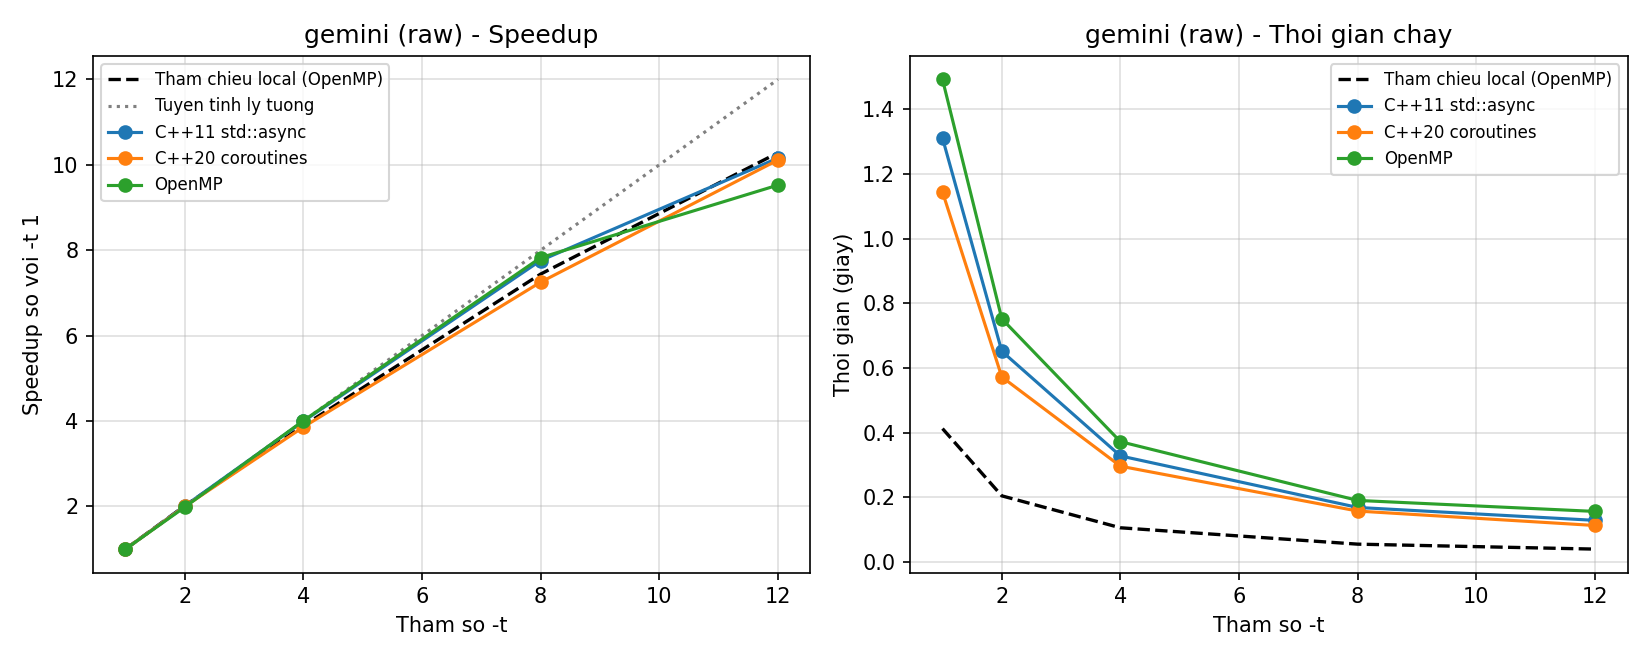
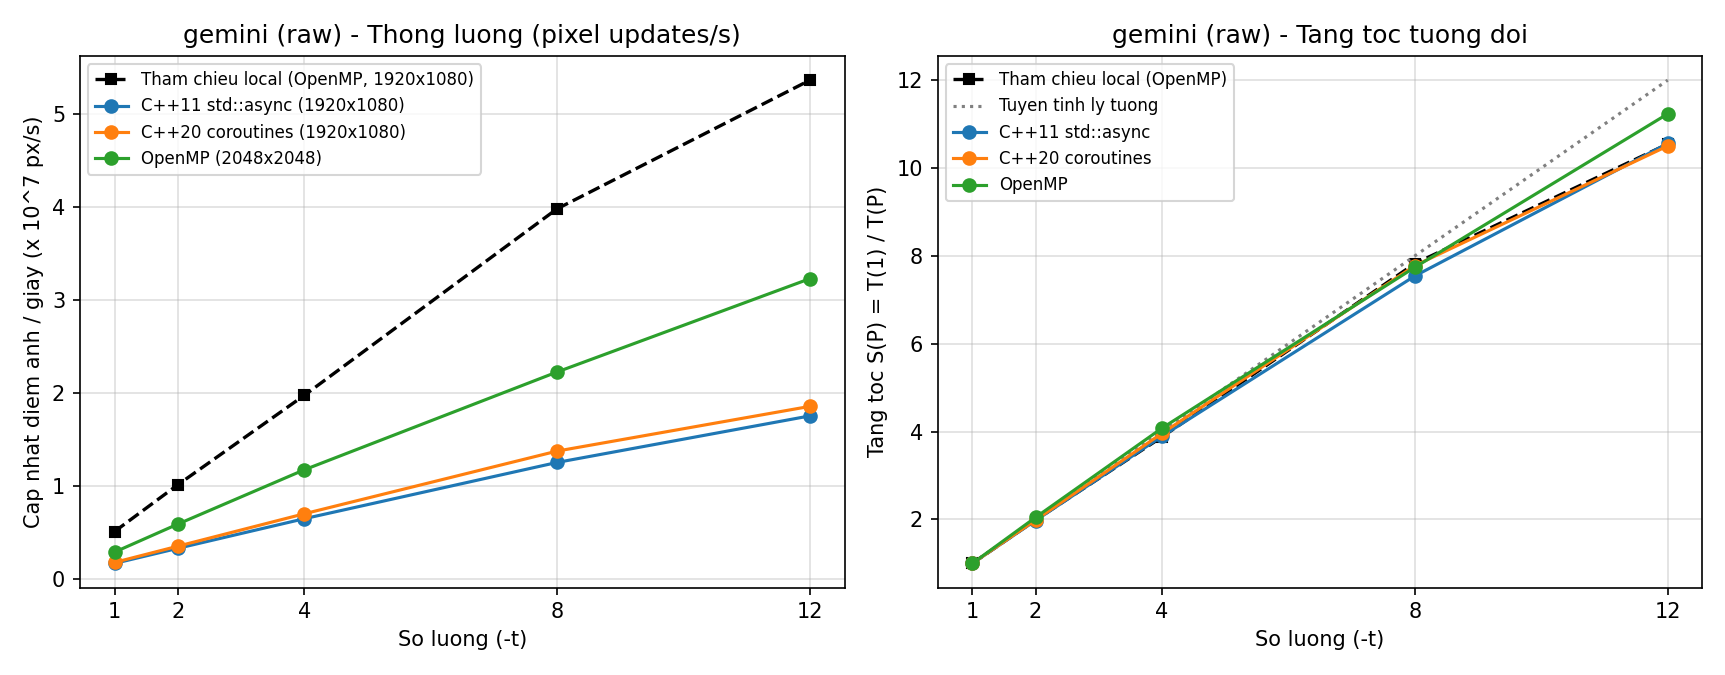
updating

diff --git a/Demo/eval_llm.py b/Demo/eval_llm.py
@@ -6,6 +6,7 @@ Chay tu thu muc Demo/:
 """
 
 import argparse
+import io
 import json
 import os
 import platform
@@ -293,11 +294,23 @@ def run_reference(gxx, env, threads, repeats):
             return statistics.mean(vals)
 
         base_args = ["-w", "1920", "-h", "1080", "-i", "1000"]
+        pixels = 1920 * 1080
         t_seq = measure(seq_exe, base_args)
         omp_times = {}
+        omp_throughput = {}
         for t in threads:
-            omp_times[t] = measure(omp_exe, base_args + ["-t", str(t)])
-        return {"seq_time": t_seq, "omp_times": omp_times, "config": "1920x1080, 1000 iter"}
+            sec = measure(omp_exe, base_args + ["-t", str(t)])
+            omp_times[t] = sec
+            omp_throughput[t] = pixels / sec if sec > 0 else 0.0
+        return {
+            "seq_time": t_seq,
+            "omp_times": omp_times,
+            "omp_throughput": omp_throughput,
+            "width": 1920,
+            "height": 1080,
+            "pixels": pixels,
+            "config": "1920x1080, 1000 iter",
+        }
 
 
 def evaluate_variant(variant, src_path, label, flags, gxx, env, has_tbb, model_dir, stage, threads, repeats, timeout):
@@ -312,6 +325,9 @@ def evaluate_variant(variant, src_path, label, flags, gxx, env, has_tbb, model_d
         "image_ok": False,
         "static_notes": [],
         "times": {},
+        "pixels": None,
+        "throughput": {},
+        "throughput_max": None,
         "time_source": None,
         "speedup_max": None,
         "flat_line_suspect": None,
@@ -399,6 +415,13 @@ def evaluate_variant(variant, src_path, label, flags, gxx, env, has_tbb, model_d
             res["time_source"] = "wall_fallback"
 
     res["runtime_ok"] = all_runs_ok and bool(res["times"])
+    im_info = res.get("image_info") or {}
+    if im_info.get("width") and im_info.get("height"):
+        pixels = int(im_info["width"]) * int(im_info["height"])
+        res["pixels"] = pixels
+        res["throughput"] = {t: pixels / sec for t, sec in res["times"].items() if sec > 0}
+        if max(threads) in res["throughput"]:
+            res["throughput_max"] = round(res["throughput"][max(threads)], 1)
     if res["runtime_ok"] and min(threads) in res["times"] and max(threads) in res["times"]:
         t_min = res["times"][min(threads)]
         t_max = res["times"][max(threads)]
@@ -420,42 +443,51 @@ def evaluate_variant(variant, src_path, label, flags, gxx, env, has_tbb, model_d
 
 
 def plot_scaling(results, ref, threads, model_name, stage, out_png):
-    fig, (ax1, ax2) = plt.subplots(1, 2, figsize=(11, 4.4))
+    fig, (ax1, ax2) = plt.subplots(1, 2, figsize=(11.5, 4.5))
     has_curve = False
 
-    # Moc tham chieu OpenMP cuc bo
-    if ref and ref["omp_times"]:
+    # Moc tham chieu OpenMP cuc bo (he quy chieu pixel updates/s nhu bai bao goc)
+    if ref and ref.get("omp_times"):
         ref_t1 = ref["omp_times"][min(threads)]
         ref_sp = [ref_t1 / ref["omp_times"][t] for t in threads]
-        ax1.plot(threads, ref_sp, "k--", linewidth=1.6, label="Tham chieu local (OpenMP)")
-        ax2.plot(threads, [ref["omp_times"][t] for t in threads], "k--", linewidth=1.6, label="Tham chieu local (OpenMP)")
+        ref_tp = [ref["omp_throughput"][t] / 1e7 for t in threads]
+        ref_lbl = f"Tham chieu local (OpenMP, {ref['width']}x{ref['height']})"
+        ax1.plot(threads, ref_tp, "ks--", linewidth=1.6, markersize=5, label=ref_lbl)
+        ax2.plot(threads, ref_sp, "ks--", linewidth=1.6, markersize=5, label="Tham chieu local (OpenMP)")
 
-    ax1.plot(threads, [t / min(threads) for t in threads], ":", color="gray", label="Tuyen tinh ly tuong")
+    ax2.plot(threads, [t / min(threads) for t in threads], ":", color="gray", label="Tuyen tinh ly tuong")
 
     for r in results:
         if r["runtime_ok"] and all(t in r["times"] for t in threads):
             has_curve = True
             t1 = r["times"][min(threads)]
             ys = [t1 / r["times"][t] for t in threads]
-            ts = [r["times"][t] for t in threads]
-            ax1.plot(threads, ys, "o-", label=r["label"])
-            ax2.plot(threads, ts, "o-", label=r["label"])
+            im = r.get("image_info") or {}
+            dim = f" ({im['width']}x{im['height']})" if im.get("width") and im.get("height") else ""
+            if r.get("throughput") and all(t in r["throughput"] for t in threads):
+                tp = [r["throughput"][t] / 1e7 for t in threads]
+                ax1.plot(threads, tp, "o-", label=f"{r['label']}{dim}")
+            ax2.plot(threads, ys, "o-", label=r["label"])
 
-    ax1.set_xlabel("Tham so -t")
-    ax1.set_ylabel("Speedup so voi -t 1")
-    ax1.set_title(f"{model_name} ({stage}) - Speedup")
+    ax1.set_xlabel("So luong (-t)")
+    ax1.set_ylabel("Cap nhat diem anh / giay (x 10^7 px/s)")
+    ax1.set_title(f"{model_name} ({stage}) - Thong luong (pixel updates/s)")
+    ax1.set_xticks(threads)
     ax1.grid(True, alpha=0.4)
     ax1.legend(fontsize=8)
 
-    ax2.set_xlabel("Tham so -t")
-    ax2.set_ylabel("Thoi gian (giay)")
-    ax2.set_title(f"{model_name} ({stage}) - Thoi gian chay")
+    ax2.set_xlabel("So luong (-t)")
+    ax2.set_ylabel("Tang toc S(P) = T(1) / T(P)")
+    ax2.set_title(f"{model_name} ({stage}) - Tang toc tuong doi")
+    ax2.set_xticks(threads)
     ax2.grid(True, alpha=0.4)
     ax2.legend(fontsize=8)
 
     fig.tight_layout()
-    fig.savefig(out_png, dpi=150)
+    buf = io.BytesIO()
+    fig.savefig(buf, format="png", dpi=150)
     plt.close(fig)
+    Path(out_png).write_bytes(buf.getvalue())
     return has_curve
 
 
@@ -468,11 +500,12 @@ def write_markdown_report(model_name, stage, env_info, results, ref, threads, ou
         f"- **Trình biên dịch:** `{env_info['compiler_version']}`",
         f"- **Hỗ trợ sẵn trên máy:** OpenMP = Có, C++20 coroutines = Có, Intel TBB = {'Có' if env_info['has_tbb'] else 'Không'}, MPI = {'Có' if env_info['has_mpi'] else 'Không'}",
         f"- **Dãy `-t` kiểm thử:** {threads} (lặp {env_info['repeats']} lần lấy trung bình)",
+        f"- **Hệ quy chiếu thông lượng:** `pixel updates per second` = `(W × H) / T_compute` (cùng định nghĩa Mục 3.5.3 & Hình 5 của bài báo gốc).",
         "",
         "## Tổng hợp theo biến thể",
         "",
-        "| Biến thể | Trạng thái | LOC | Biên dịch (cảnh báo) | Thực thi | Ảnh Netpbm | Speedup (-t max/-t 1) | Nghi ngờ bỏ qua -t | Ghi chú |",
-        "|---|---|---:|---|---|---|---|---|---|",
+        "| Biến thể | Trạng thái | LOC | Biên dịch (cảnh báo) | Thực thi | Ảnh Netpbm | Thông lượng max (×10⁷ px/s) | Speedup (-t max/-t 1) | Nghi ngờ bỏ qua -t | Ghi chú |",
+        "|---|---|---:|---|---|---|---|---|---|---|",
     ]
     for r in results:
         b = "✓" if r["build_ok"] else ("—" if r["status"] in ("MISSING", "SKIPPED_NO_TBB", "STATIC_ONLY_NO_MPI") else "×")
@@ -486,22 +519,25 @@ def write_markdown_report(model_name, stage, env_info, results, ref, threads, ou
             im = f"× ({im_info.get('issue','lỗi ảnh')})"
         else:
             im = "—"
+        tp = f"{r['throughput_max'] / 1e7:.2f}" if r.get("throughput_max") is not None else "—"
         sp = f"{r['speedup_max']:.2f}× ({r['time_source']})" if r["speedup_max"] is not None else "—"
         flat = "Có (đường phẳng)" if r["flat_line_suspect"] else ("Không" if r["flat_line_suspect"] is False else "—")
         notes = "; ".join(r["errors"] + r["static_notes"]) or "—"
         lines.append(
-            f"| {r['label']} | `{r['status']}` | {r.get('loc', '—')} | {b} | {rt} | {im} | {sp} | {flat} | {notes} |"
+            f"| {r['label']} | `{r['status']}` | {r.get('loc', '—')} | {b} | {rt} | {im} | {tp} | {sp} | {flat} | {notes} |"
         )
 
     if ref:
         t_min, t_max = min(threads), max(threads)
         sp_ref = ref["omp_times"][t_min] / ref["omp_times"][t_max]
+        tp_min = ref["omp_throughput"][t_min] / 1e7
+        tp_max = ref["omp_throughput"][t_max] / 1e7
         lines += [
             "",
             "## Mốc tham chiếu cục bộ (`Demo/mandelbrot/mandel_omp.cpp`, 1920×1080, 1000 vòng)",
             "",
-            f"- Tuần tự: `{ref['seq_time']:.4f} s`",
-            f"- OpenMP `-t {t_min}`: `{ref['omp_times'][t_min]:.4f} s` → `-t {t_max}`: `{ref['omp_times'][t_max]:.4f} s` (tăng tốc `{sp_ref:.2f}×`)",
+            f"- Tuần tự: `{ref['seq_time']:.4f} s` (`{ref['pixels'] / ref['seq_time'] / 1e7:.2f} × 10⁷ px/s`)",
+            f"- OpenMP `-t {t_min}`: `{ref['omp_times'][t_min]:.4f} s` (`{tp_min:.2f} × 10⁷ px/s`) → `-t {t_max}`: `{ref['omp_times'][t_max]:.4f} s` (`{tp_max:.2f} × 10⁷ px/s`, tăng tốc `{sp_ref:.2f}×`)",
         ]
 
     out_md.write_text("\n".join(lines) + "\n", encoding="utf-8")

diff --git a/Demo/llm_eval/gemini/notes.md b/Demo/llm_eval/gemini/notes.md
@@ -4,18 +4,21 @@
 - **Phiên bản / nguồn mô hình:** Gemini 4 Hydrogen (Effort: High)
 - **Cách sinh:** 1 lần sinh duy nhất cho mỗi biến thể, mỗi prompt gửi ở một phiên chat mới hoàn toàn trống (zero-shot, nguyên văn prompt từ Phần 3.3 của báo cáo).
 - **Môi trường kiểm thử cục bộ:** Windows 11, CPU 12 luồng logic, MinGW-W64 GCC 13.2.0 (`E:\Strawberry\c\bin\g++.exe`), không cài Intel TBB và không có MPI.
+- **Hệ quy chiếu thông lượng:** `pixel updates per second` = `(W × H) / T_compute` (đơn vị `×10⁷ px/s`, cùng định nghĩa Mục 3.5.3 và Hình 5 của bài báo gốc).
 
 ## Kết quả chạy nguyên bản (`raw/` — không cần sửa dòng nào)
 
-| Biến thể | LOC | Biên dịch (`-Wall -Wextra`) | Thực thi | Ảnh P4 | Thời gian (`-t 1` → `-t 12`) | Speedup (`-t 12 / -t 1`) | Ghi chú kỹ thuật |
+| Biến thể | LOC | Biên dịch (`-Wall -Wextra`) | Thực thi | Ảnh P4 | Thông lượng (`-t 1` → `-t 12`, ×10⁷ px/s) | Speedup (`-t 12 / -t 1`) | Ghi chú kỹ thuật |
 |---|---:|---|---|---|---|---:|---|
-| `async.cpp` | 133 | ✓ (0 cảnh báo) | ✓ | ✓ (1920×1080) | `1,311 s` → `0,129 s` | **10,16×** | `std::launch::async` + hàng đợi động `std::atomic<int> next_row`, giữ tỉ lệ khung hình |
-| `par_algo.cpp` | 163 | ✓ (0 cảnh báo)* | ✓ (tuần tự không TBB) | ✓ (1920×1080) | `0,071 s` → `0,070 s`* | 1,02×* | Dùng `__has_include(<tbb/global_control.h>)` + `tbb::global_control` (fallback ConcRT / in cảnh báo rõ ràng khi thiếu TBB); có tối ưu bỏ qua hình tim + bóng chu kỳ 2 |
-| `coroutine.cpp` | 205 | ✓ (0 cảnh báo) | ✓ | ✓ (1920×1080) | `1,144 s` → `0,113 s` | **10,11×** | Tự xây `ThreadPool` (`std::jthread`), `co_await pool.schedule()`, đồng bộ bằng `std::latch`, không dùng vòng lặp chờ `.done()` nên tránh triệt để lỗi treo/UB |
-| `openmp.cpp` | 100 | ✓ (0 cảnh báo) | ✓ | ✓ (2048×2048) | `1,492 s` → `0,157 s` | **9,53×** | `omp_set_num_threads` + `num_threads` + `schedule(dynamic, 1)`; lưu ý nhỏ: dùng `std::fill` mà thiếu `#include <algorithm>` (GCC 13.2 kéo gián tiếp qua header khác, có thể cần thêm ở trình biên dịch chặt hơn) |
+| `async.cpp` | 133 | ✓ (0 cảnh báo) | ✓ | ✓ (1920×1080) | `0,17` → `1,75` (`1,250 s` → `0,118 s`) | **10,56×** | `std::launch::async` + hàng đợi động `std::atomic<int> next_row`, giữ tỉ lệ khung hình |
+| `par_algo.cpp` | 163 | ✓ (0 cảnh báo)* | ✓ (tuần tự không TBB) | ✓ (1920×1080) | `2,91` → `2,98`* (`0,071 s` → `0,070 s`*) | 1,02×* | Dùng `__has_include(<tbb/global_control.h>)` + `tbb::global_control` (fallback ConcRT / in cảnh báo rõ ràng khi thiếu TBB); có tối ưu bỏ qua hình tim + bóng chu kỳ 2 |
+| `coroutine.cpp` | 205 | ✓ (0 cảnh báo) | ✓ | ✓ (1920×1080) | `0,18` → `1,85` (`1,175 s` → `0,112 s`) | **10,50×** | Tự xây `ThreadPool` (`std::jthread`), `co_await pool.schedule()`, đồng bộ bằng `std::latch`, không dùng vòng lặp chờ `.done()` nên tránh triệt để lỗi treo/UB |
+| `openmp.cpp` | 100 | ✓ (0 cảnh báo) | ✓ | ✓ (2048×2048) | `0,29` → **`3,23`** (`1,460 s` → `0,130 s`) | **11,23×** | `omp_set_num_threads` + `num_threads` + `schedule(dynamic, 1)`; lưu ý nhỏ: dùng `std::fill` mà thiếu `#include <algorithm>` (GCC 13.2 kéo gián tiếp qua header khác, có thể cần thêm ở trình biên dịch chặt hơn) |
 | `mpi_omp.cpp` | 199 | *(chưa biên dịch — thiếu MPI)* | *(kiểm duyệt tĩnh)* | — | — | — | Dùng `MPI_Init_thread(MPI_THREAD_FUNNELED)`, phân vùng block-cyclic theo `-p`, `MPI_Gatherv`, đặt `MPI_Barrier` + `MPI_Wtime()` sau gather và loại I/O |
 
-*\*Lưu ý `par_algo.cpp`:* biên dịch sạch không lỗi/cảnh báo ngay cả khi máy cục bộ thiếu Intel TBB, nhưng libstdc++ rơi về thực thi tuần tự và chương trình tự in cảnh báo `"Warning: No TBB or ConcRT backend detected; -t may be ignored."`. Thời gian đơn luồng rất nhanh (`~71 ms`) nhờ cắt tỉa toán học hình tim chính và bóng chu kỳ 2.
+- **Mốc tham chiếu cục bộ (`Demo/mandelbrot/mandel_omp.cpp`, `1920×1080`, 1000 vòng):** `0,51` → **`5,36 × 10⁷ px/s`** (`0,408 s` → `0,039 s`, tăng tốc **`10,55×`**).
+
+*\*Lưu ý `par_algo.cpp`:* biên dịch sạch không lỗi/cảnh báo ngay cả khi máy cục bộ thiếu Intel TBB, nhưng libstdc++ rơi về thực thi tuần tự và chương trình tự in cảnh báo `"Warning: No TBB or ConcRT backend detected; -t may be ignored."`. Thông lượng đơn luồng rất cao (`2,91 × 10⁷ px/s`, `~71 ms`) nhờ cắt tỉa toán học hình tim chính và bóng chu kỳ 2.
 
 ## Nhật ký sửa lỗi tối thiểu (`raw/` -> `fixed/`)
 

diff --git a/Demo/llm_eval/gemini/report_raw.md b/Demo/llm_eval/gemini/report_raw.md
@@ -1,22 +1,23 @@
 # Kết quả đánh giá bổ sung: `gemini` (giai đoạn `raw`)
 
-- **Thời điểm chạy:** 2026-11-26 00:49:03
+- **Thời điểm chạy:** 2026-11-26 15:21:40
 - **Hệ điều hành / CPU:** Windows 11 — 12 luồng logic
 - **Trình biên dịch:** `g++.exe (MinGW-W64 x86_64-ucrt-posix-seh, built by Brecht Sanders, r8) 13.2.0`
 - **Hỗ trợ sẵn trên máy:** OpenMP = Có, C++20 coroutines = Có, Intel TBB = Không, MPI = Không
 - **Dãy `-t` kiểm thử:** [1, 2, 4, 8, 12] (lặp 3 lần lấy trung bình)
+- **Hệ quy chiếu thông lượng:** `pixel updates per second` = `(W × H) / T_compute` (cùng định nghĩa Mục 3.5.3 & Hình 5 của bài báo gốc).
 
 ## Tổng hợp theo biến thể
 
-| Biến thể | Trạng thái | LOC | Biên dịch (cảnh báo) | Thực thi | Ảnh Netpbm | Speedup (-t max/-t 1) | Nghi ngờ bỏ qua -t | Ghi chú |
-|---|---|---:|---|---|---|---|---|---|
-| C++11 std::async | `PASS` | 133 | ✓ (0) | ✓ | ✓ (P4, 1920×1080) | 10.16× (stdout) | Không | — |
-| C++17 parallel algorithms | `SKIPPED_NO_TBB` | 163 | — | — | — | — | — | Co dung tbb::global_control |
-| C++20 coroutines | `PASS` | 205 | ✓ (0) | ✓ | ✓ (P4, 1920×1080) | 10.11× (stdout) | Không | — |
-| OpenMP | `PASS` | 100 | ✓ (0) | ✓ | ✓ (P4, 2048×2048) | 9.53× (stdout) | Không | — |
-| MPI+OpenMP | `STATIC_ONLY_NO_MPI` | 199 | — | — | — | — | — | Dung MPI_Gatherv (an toan khi H khong chia het cho P) |
+| Biến thể | Trạng thái | LOC | Biên dịch (cảnh báo) | Thực thi | Ảnh Netpbm | Thông lượng max (×10⁷ px/s) | Speedup (-t max/-t 1) | Nghi ngờ bỏ qua -t | Ghi chú |
+|---|---|---:|---|---|---|---|---|---|---|
+| C++11 std::async | `PASS` | 133 | ✓ (0) | ✓ | ✓ (P4, 1920×1080) | 1.75 | 10.56× (stdout) | Không | — |
+| C++17 parallel algorithms | `SKIPPED_NO_TBB` | 163 | — | — | — | — | — | — | Co dung tbb::global_control |
+| C++20 coroutines | `PASS` | 205 | ✓ (0) | ✓ | ✓ (P4, 1920×1080) | 1.85 | 10.50× (stdout) | Không | — |
+| OpenMP | `PASS` | 100 | ✓ (0) | ✓ | ✓ (P4, 2048×2048) | 3.23 | 11.23× (stdout) | Không | — |
+| MPI+OpenMP | `STATIC_ONLY_NO_MPI` | 199 | — | — | — | — | — | — | Dung MPI_Gatherv (an toan khi H khong chia het cho P) |
 
 ## Mốc tham chiếu cục bộ (`Demo/mandelbrot/mandel_omp.cpp`, 1920×1080, 1000 vòng)
 
-- Tuần tự: `0.4134 s`
-- OpenMP `-t 1`: `0.4127 s` → `-t 12`: `0.0401 s` (tăng tốc `10.28×`)
+- Tuần tự: `0.3976 s` (`0.52 × 10⁷ px/s`)
+- OpenMP `-t 1`: `0.4080 s` (`0.51 × 10⁷ px/s`) → `-t 12`: `0.0387 s` (`5.36 × 10⁷ px/s`, tăng tốc `10.55×`)
